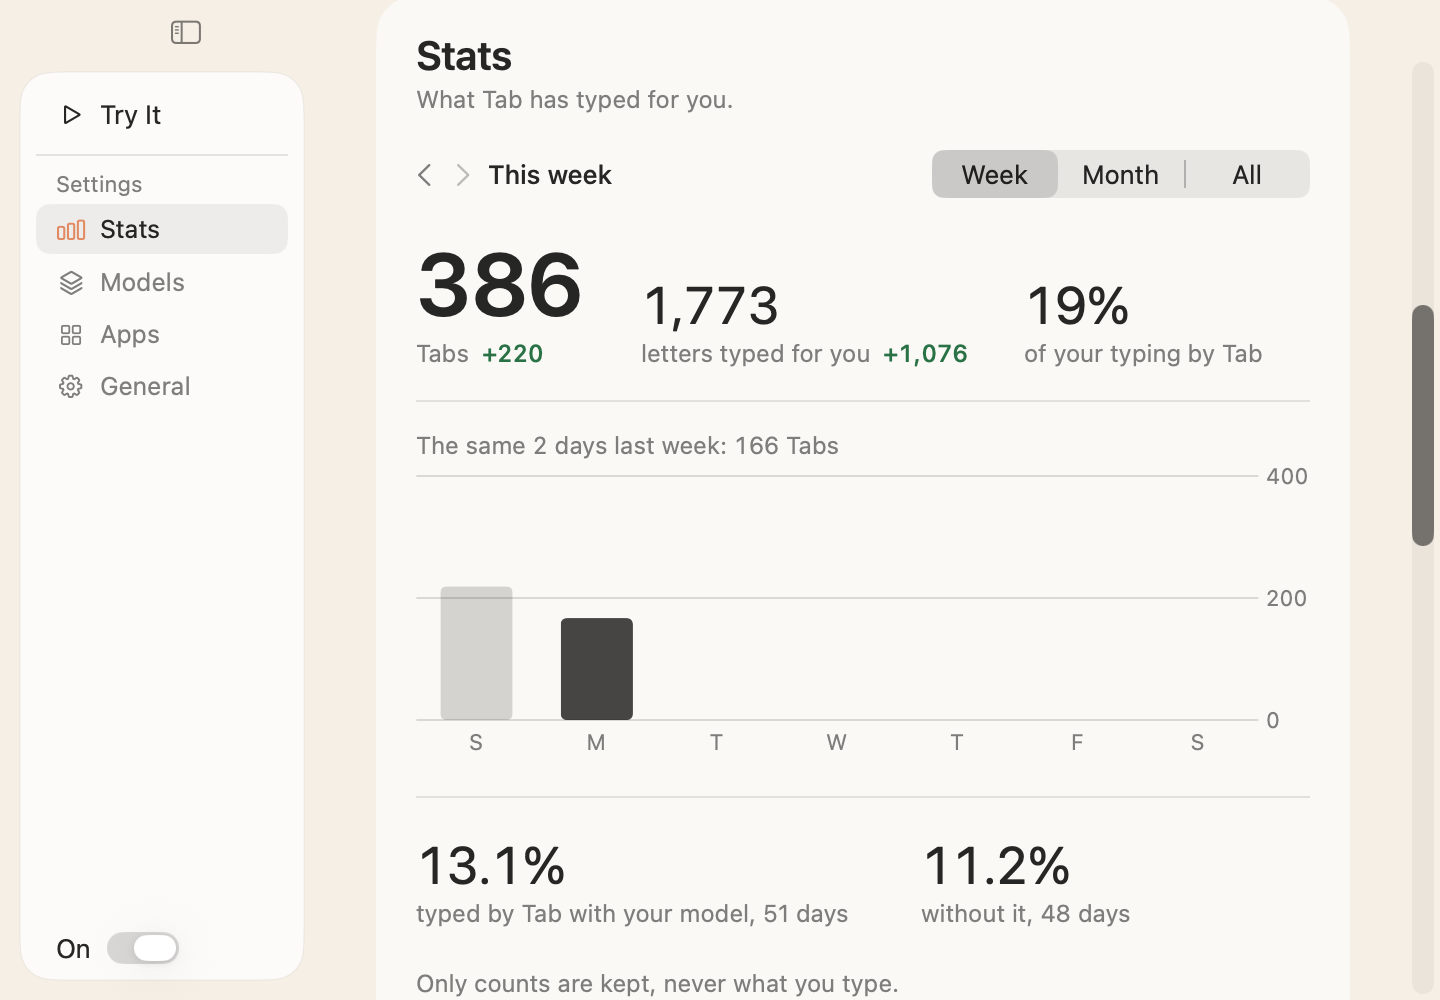
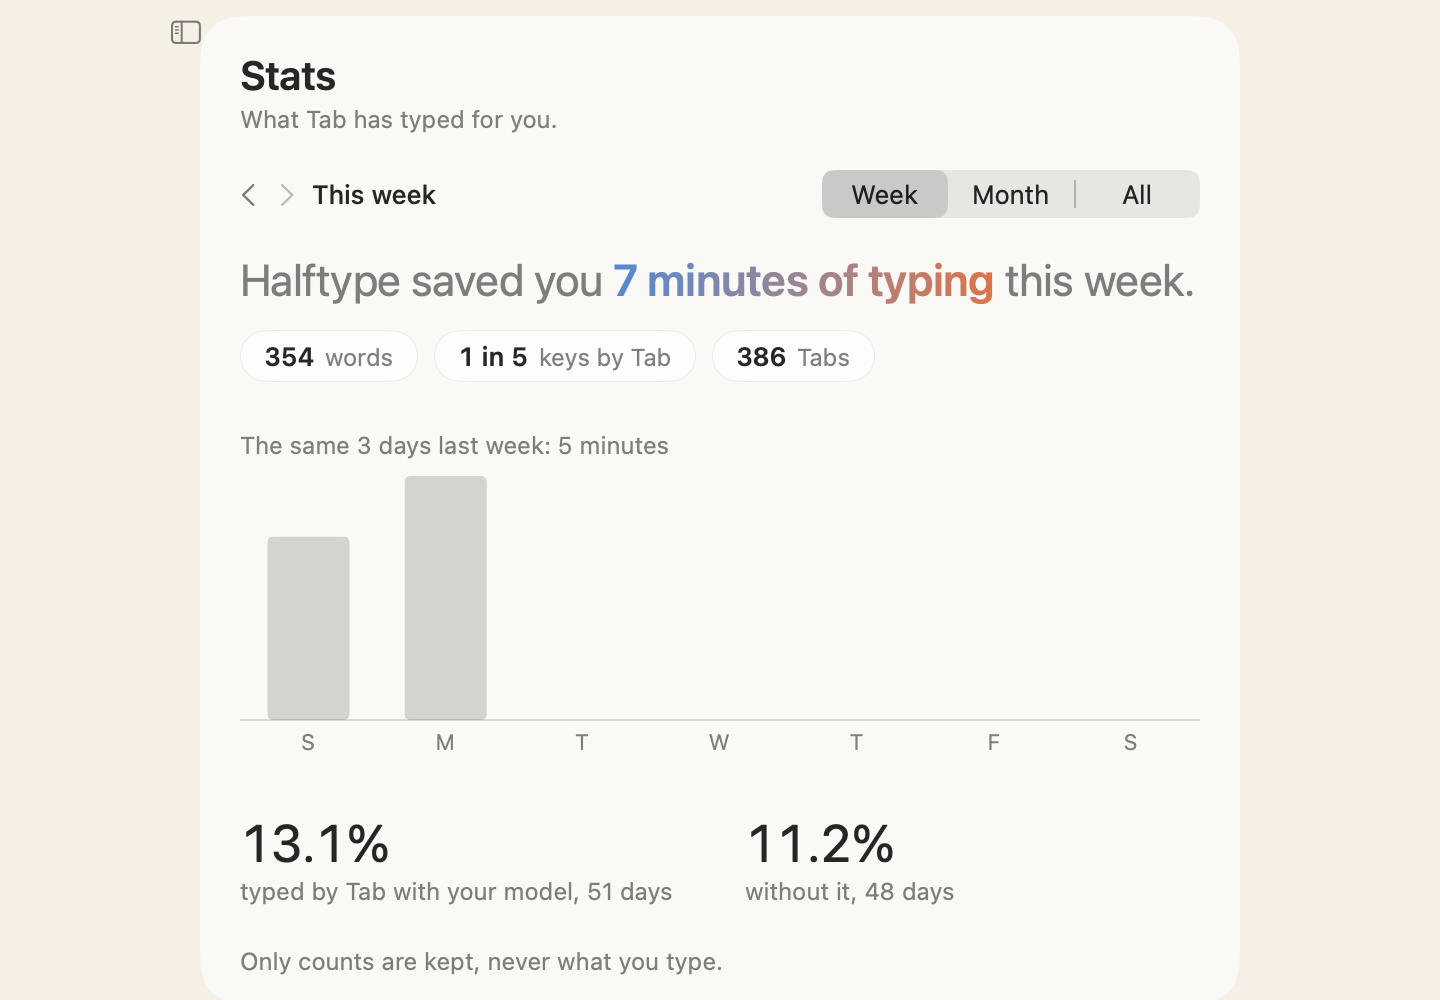
Stats: lead with time saved in one sentence ("Halftype saved you 21 minutes of typing this week"), words / 1 in N keys / Tabs as hover-explained chips, bars and dots by time saved, no gridlines (design round 5, E)
Time is keys saved at 40 wpm and words are letters / 5 for now, both marked shortcut in Tally.

diff --git a/Sources/HalftypeApp/Window.swift b/Sources/HalftypeApp/Window.swift
@@ -486,6 +486,7 @@ private struct Row<Trailing: View>: View {
 }
 
 /// A week or a month as bars, paged back with arrows, or every day as a dot; the numbers follow what's showing (docs/design/stats round 2, B).
+/// Time saved leads, in one sentence, with the other counts as chips below (round 5, E).
 struct StatsPage: View {
     enum Span: String, CaseIterable { case week = "Week", month = "Month", all = "All" }
     /// Where the page opens, for the window shots.
@@ -522,13 +523,15 @@ struct StatsPage: View {
             .buttonStyle(.borderless)
             .padding(.top, 6)
             .onChange(of: span) { back = 0; picked = nil; hovered = nil }
-            HStack(alignment: .lastTextBaseline, spacing: 28) {
-                Figure(value: shown.tabs.formatted(), label: shown.tabs == 1 ? "Tab" : "Tabs", big: true, change: change(shown.tabs, before?.tabs))
-                Figure(value: shown.characters.formatted(), label: "letters typed for you", change: change(shown.characters, before?.characters))
-                Figure(value: shown.byTab.map { $0.formatted(.percent.precision(.fractionLength(0))) } ?? "–", label: "of your typing by Tab")
+            headline(shown, period).padding(.top, 18)
+            HStack(spacing: 8) {
+                Chip(value: shown.words.formatted(), label: shown.words == 1 ? "word" : "words",
+                     help: "\(shown.characters.formatted()) letters Tab typed for you, in five-letter words, as typing tests count them.")
+                if let n = shown.oneIn { Chip(value: "1 in \(n)", label: "keys by Tab", help: "Of all the keys you typed, Tab typed one in \(n) for you.") }
+                Chip(value: shown.tabs.formatted(), label: shown.tabs == 1 ? "Tab" : "Tabs", help: "How many times you pressed Tab to take a suggestion.")
             }
-            .padding(.vertical, 16)
-            Text(caption(period, before)).font(.system(size: 12)).foregroundStyle(.secondary).monospacedDigit().padding(.top, 14).padding(.bottom, 8)
+            .padding(.top, 12)
+            Text(caption(period, before)).font(.system(size: 12)).foregroundStyle(.secondary).monospacedDigit().padding(.top, 24).padding(.bottom, 8)
             if let period { bars(period) } else { dots }
             personal
             Text("Only counts are kept, never what you type.").font(.system(size: 12)).foregroundStyle(.secondary).padding(.top, 20)
@@ -548,19 +551,35 @@ struct StatsPage: View {
     }
     private static let keyFormat: DateFormatter = { let f = DateFormatter(); f.dateFormat = "yyyy-MM-dd"; f.locale = Locale(identifier: "en_US_POSIX"); return f }()
 
-    /// Up or down on the stretch before, once there was one.
-    private func change(_ now: Int, _ before: Int?) -> Int? { before.map { now - $0 } }
+    /// "Halftype saved you 21 minutes of typing this week.", the time in the icon's glass.
+    private func headline(_ day: Tally.Day, _ period: Tally.Period?) -> some View {
+        let end = period == nil ? " so far." : back > 0 ? "." : span == .week ? " this week." : " this month."
+        let sentence = day.saved == 0 ? Text("Nothing typed by Tab" + end).foregroundStyle(.secondary)
+            : Text("Halftype saved you ").foregroundStyle(.secondary)
+            + Text(Self.time(day.minutesSaved) + " of typing").fontWeight(.semibold)
+                .foregroundStyle(LinearGradient(colors: [Color(red: 0.36, green: 0.58, blue: 0.84), Color(red: 0.88, green: 0.50, blue: 0.32)], startPoint: .leading, endPoint: .trailing))
+            + Text(end).foregroundStyle(.secondary)
+        return sentence.font(.system(size: 22)).fixedSize(horizontal: false, vertical: true)
+            .help("Keys Tab typed for you, \(day.saved.formatted()), at 40 words a minute.")
+    }
+
+    /// "21 minutes", "1 hour, 12 minutes", or under a minute.
+    static func time(_ minutes: Double) -> String {
+        let whole = Int(minutes.rounded())
+        if whole == 0 { return "under a minute" }
+        return Duration.seconds(whole * 60).formatted(.units(allowed: [.hours, .minutes], width: .wide))
+    }
 
     private func caption(_ period: Tally.Period?, _ before: Tally.Day?) -> String {
         if let hovered {
             let day = app.tally.last(1, to: hovered, calendar)[0].day
-            return "\(hovered.formatted(.dateTime.weekday(.wide).month().day())): \(day.tabs) Tabs, \(day.characters) letters"
+            return "\(hovered.formatted(.dateTime.weekday(.wide).month().day())): \(Self.time(day.minutesSaved)) saved, \(day.words.formatted()) words"
         }
-        guard let period else { return "Each dot is a day, bigger for more Tabs." }
+        guard let period else { return "Each dot is a day, bigger for more time saved." }
         guard let before else { return "" }
         let stretch = back > 0 ? (span == .week ? "The week before" : "The month before")
             : period.elapsed == 1 ? "The same day last \(span == .week ? "week" : "month")" : "The same \(period.previousLength) days last \(span == .week ? "week" : "month")"
-        return "\(stretch): \(before.tabs.formatted()) Tabs"
+        return "\(stretch): \(Self.time(before.minutesSaved))"
     }
 
     /// The period's days as bars; hovering one shows it in a tag above.
@@ -568,7 +587,7 @@ struct StatsPage: View {
         let days = app.tally.last(period.length, to: day(period.length - 1, of: period.start), calendar)
         return Chart {
             ForEach(days, id: \.date) { entry in
-                BarMark(x: .value("Day", entry.date, unit: .day), y: .value("Tabs", entry.day.tabs), width: .ratio(0.6))
+                BarMark(x: .value("Day", entry.date, unit: .day), y: .value("Minutes", entry.day.minutesSaved), width: .ratio(0.6))
                     .clipShape(RoundedRectangle(cornerRadius: 3))
                     .foregroundStyle(Color.primary.opacity(lit(entry.date) ? 0.85 : 0.18))
             }
@@ -586,26 +605,27 @@ struct StatsPage: View {
                 AxisMarks(values: [0, 7, 14, 21, 28].compactMap { calendar.date(byAdding: .hour, value: 12, to: day($0, of: period.start)) }) { _ in AxisValueLabel(format: .dateTime.day()) }
             }
         }
-        .chartYAxis { AxisMarks(position: .trailing, values: .automatic(desiredCount: 3)) { AxisGridLine(); AxisValueLabel() } }
+        // Only the baseline: a day's number is in its tag (round 5).
+        .chartYAxis { AxisMarks(values: [0]) { _ in AxisGridLine() } }
         .frame(height: 140)
     }
 
     private func lit(_ date: Date) -> Bool { calendar.isDate(date, inSameDayAs: picked ?? Date()) }
 
-    /// The last 26 weeks, one dot a day in the sky's halftone, bigger for more Tabs. Days before counting began are specks.
+    /// The last 26 weeks, one dot a day in the sky's halftone, bigger for more time saved. Days before counting began are specks.
     private var dots: some View {
         let weeks = 26, cell: CGFloat = 18
         let thisWeek = calendar.dateInterval(of: .weekOfYear, for: Date())?.start ?? calendar.startOfDay(for: Date())
         let first = calendar.date(byAdding: .weekOfYear, value: -(weeks - 1), to: thisWeek) ?? thisWeek
         let all = app.tally.last(weeks * 7, to: day(weeks * 7 - 1, of: first), calendar)
-        let most = max(1, all.map(\.day.tabs).max() ?? 1), since = app.tally.since
+        let most = max(1, all.map(\.day.saved).max() ?? 1), since = app.tally.since
         return HStack(spacing: 0) {
             ForEach(0..<weeks, id: \.self) { week in
                 VStack(spacing: 0) {
                     ForEach(0..<7, id: \.self) { weekday in
                         let entry = all[week * 7 + weekday], key = Tally.key(entry.date, calendar)
                         let future = entry.date > Date(), counted = since.map { key >= $0 } ?? false, today = calendar.isDateInToday(entry.date)
-                        let radius = future ? 0 : !counted ? 0.9 : entry.day.tabs == 0 ? 1.2 : 1.4 + (cell * 0.42 - 1.4) * sqrt(Double(entry.day.tabs) / Double(most))
+                        let radius = future ? 0 : !counted ? 0.9 : entry.day.saved == 0 ? 1.2 : 1.4 + (cell * 0.42 - 1.4) * sqrt(Double(entry.day.saved) / Double(most))
                         Circle().fill(Color.primary.opacity(today ? 0.88 : counted ? 0.55 : 0.13)).frame(width: radius * 2, height: radius * 2)
                             .frame(width: cell, height: cell)
                             .contentShape(Rectangle())
@@ -614,7 +634,7 @@ struct StatsPage: View {
                 }
             }
         }
-        .accessibilityLabel("Tabs per day for the last 26 weeks")
+        .accessibilityLabel("Time saved per day for the last 26 weeks")
     }
 
     /// Days with the personal model against days without, once there are both.
@@ -649,8 +669,8 @@ private struct Tag: View {
     var body: some View {
         VStack(alignment: .leading, spacing: 1) {
             Text(date.formatted(.dateTime.weekday(.wide).month().day())).foregroundStyle(.white.opacity(0.6))
-            Text("\(day.tabs) Tabs · \(day.characters.formatted()) letters")
-            if let share = day.byTab { Text("\(share.formatted(.percent.precision(.fractionLength(1)))) typed by Tab") }
+            Text("\(StatsPage.time(day.minutesSaved)) saved · \(day.words.formatted()) words")
+            Text("\(day.tabs.formatted()) Tabs" + (day.oneIn.map { " · 1 in \($0) keys by Tab" } ?? ""))
         }
         .font(.system(size: 11)).monospacedDigit().foregroundStyle(.white)
         .padding(.horizontal, 9).padding(.vertical, 6)
@@ -661,23 +681,28 @@ private struct Tag: View {
 private struct Figure: View {
     let value: String
     let label: String
-    var big = false
-    /// Up or down on the stretch before, beside the label, where it fits at any window width.
-    var change: Int? = nil
     var body: some View {
         VStack(alignment: .leading, spacing: 2) {
-            Text(value).font(.system(size: big ? 44 : 26, weight: big ? .semibold : .regular)).monospacedDigit()
-                .contentTransition(.numericText()).animation(.snappy, value: value)
-                .fixedSize()
-            HStack(spacing: 6) {
-                Text(label).foregroundStyle(.secondary)
-                if let change, change != 0 {
-                    Text((change > 0 ? "+" : "−") + abs(change).formatted()).fontWeight(.medium).monospacedDigit()
-                        .foregroundStyle(change > 0 ? Color(red: 0.18, green: 0.49, blue: 0.31) : Color(red: 0.64, green: 0.27, blue: 0.23))
-                }
-            }
-            .font(.system(size: 12))
+            Text(value).font(.system(size: 26)).monospacedDigit().fixedSize()
+            Text(label).font(.system(size: 12)).foregroundStyle(.secondary)
         }
+    }
+}
+
+/// One count under the sentence, in faint glass so it doesn't read as a button; hovering says what it means.
+private struct Chip: View {
+    let value: String
+    let label: String
+    let help: String
+    var body: some View {
+        HStack(alignment: .firstTextBaseline, spacing: 5) {
+            Text(value).font(.system(size: 13, weight: .semibold)).monospacedDigit()
+            Text(label).font(.system(size: 12)).foregroundStyle(.secondary)
+        }
+        .padding(.horizontal, 12).padding(.vertical, 5)
+        .background(.white.opacity(0.6), in: Capsule())
+        .overlay(Capsule().strokeBorder(.primary.opacity(0.09), lineWidth: 0.5))
+        .help(help)
     }
 }
 

diff --git a/Sources/HalftypeCore/Tally.swift b/Sources/HalftypeCore/Tally.swift
@@ -28,6 +28,14 @@ public struct Tally: Codable, Equatable, Sendable {
         }
         /// Of everything typed, the share Tab typed: what the replay bench calls keys saved. Nil before keys were counted.
         public var byTab: Double? { typed == 0 ? nil : Double(saved) / Double(saved + typed) }
+        /// Tab typed one key in this many, by `byTab`: nil before keys were counted or with none saved.
+        public var oneIn: Int? { saved == 0 || typed == 0 ? nil : Int((Double(saved + typed) / Double(saved)).rounded()) }
+        /// The keys Tab typed, at 40 words a minute (200 keys).
+        /// shortcut: one speed for everyone; measure each user's typing seconds per day if the Stats page should say "at your speed".
+        public var minutesSaved: Double { Double(saved) / 200 }
+        /// Letters ÷ 5, the typing-test word.
+        /// shortcut: a Hangul letter is a syllable, so Korean comes out about 3× high; count finished words at each Tab to fix it.
+        public var words: Int { characters / 5 }
     }
 
     /// Keyed `yyyy-MM-dd` in the user's calendar, as Cotypist's stats are, so the two compare day for day.

diff --git a/Tests/HalftypeCoreTests/TallyTests.swift b/Tests/HalftypeCoreTests/TallyTests.swift
@@ -78,3 +78,9 @@ import Testing
     tally.took(3, first: true, on: monday, calendar); tally.took(4, first: true, on: date(11, 2), calendar)
     #expect(tally.sum(7, to: monday, calendar).tabs == 1 && tally.sum(8, to: monday, calendar).characters == 7)
 }
+
+@Test func tallyDaySaysTimeWordsAndOneKeyInN() {
+    let day = Tally.Day(tabs: 936, characters: 4_143, typed: 27_095, saved: 4_154)
+    #expect(day.words == 828 && abs(day.minutesSaved - 20.77) < 0.01 && day.oneIn == 8)
+    #expect(Tally.Day(characters: 9).oneIn == nil && Tally.Day(typed: 50).oneIn == nil)  // Before keys were counted, and nothing saved.
+}

diff --git a/docs/design/stats/README.md b/docs/design/stats/README.md
@@ -50,4 +50,4 @@ John: "C looks good but there's so many horizontal lines everywhere? Show me som
 - `round5/index.html`: A round 4's C; B the same figures with no dividers; C the stats as one quiet grey line under the sentence; D labels above numbers; E soft chips; F the stats under the chart; G chart and stats in one white panel. Every option but A keeps only the chart's baseline (G: none).
 - `round5/options.png`: frozen screenshot.
 
-Recommendation: C (the quiet line). Pick: pending.
+Recommendation: C (the quiet line). Pick: E (John: "E visually does differentiate everything, which i appreciate"), with two fixes: the chips are faint white glass with a hairline so they don't read as the Week / Month / All control, and each explains itself on hover. Time saved uses a fixed 40 wpm (200 keys a minute) and words are letters ÷ 5 for now: measuring each user's speed and counting Korean words are open. The chart and the All dots now show time saved, not Tabs. `built/round5-stats-week.png`, `-month`, `-all`: the shipped page, from `HALFTYPE_SHOTS=<dir> swift test --disable-keychain --filter WindowShots/stats` on 2026-11-10 (sample data).

diff --git a/README.md b/README.md
@@ -27,7 +27,7 @@ It keeps itself up to date, with signed and notarized releases. Turn off Update 
 
 | How much it typed for you (Stats; these counts are made up) |
 |---|
-| ![The Stats page: this week's Tabs, letters typed for you and share of typing by Tab, each against last week, with the week as bars and a Week / Month / All switch](docs/media/window-stats.png) |
+| ![The Stats page: "Halftype saved you 7 minutes of typing this week", then words, 1 in 5 keys by Tab and Tabs as chips, the week as bars of minutes, and a Week / Month / All switch](docs/media/window-stats.png) |
 
 ## Use
 
